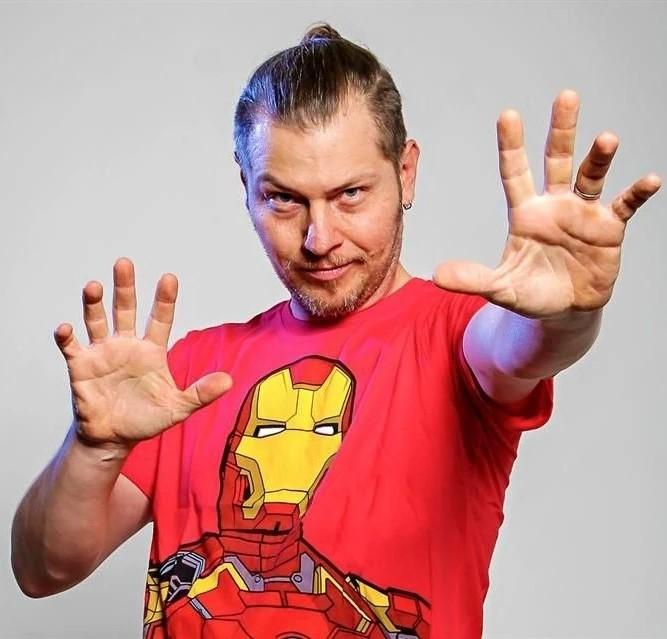
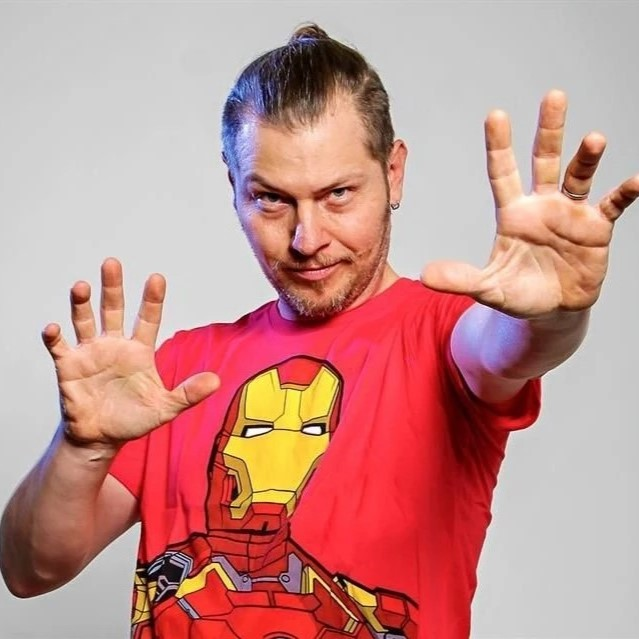
25.6

diff --git a/entradas.css b/entradas.css
@@ -80,6 +80,19 @@
     margin-top: 14%;
     cursor: pointer;
 }
+.botones2 {
+    background-color: rgb(0, 0, 0);
+    font-family: 'Franklin Gothic Medium';
+    color: white;
+    border-radius: 10px;
+    padding: 6px 60px;
+    text-align: center;
+    text-decoration: none;
+    display: inline-block;
+    font-size: 30px;
+    margin-top: 25%;
+    cursor: pointer;
+}
 .botones3 {
     background-color: rgb(0, 0, 0);
     font-family: 'Franklin Gothic Medium';

diff --git a/entradas.html b/entradas.html
@@ -73,7 +73,7 @@
                             <p>- Póster exclusivo.</p>
                             <p>- Zona VIP.</p>
                         </div>
-                        <a href="carrito.html?agregar=vip" class="botones">
+                        <a href="carrito.html?agregar=vip" class="botones2">
                            COMPRAR
                         </a>
                      </div>
@@ -91,7 +91,7 @@
                             <p>- Stands y tiendas.</p>
                             <p>- Póster exclusivo.</p>
                         </div>  
-                        <a href="carrito.html?agregar=abono" class="botones">
+                        <a href="carrito.html?agregar=abono" class="botones3">
                          COMPRAR
                         </a>
                      </div>

diff --git a/global.css b/global.css
@@ -190,7 +190,7 @@ body {
     margin-top: 20px;
 }
 .tarjeta {
-    width: 22%;
+    width: 24%;
 }
 .tarjeta img {
     width: 100%;
@@ -227,7 +227,7 @@ body {
     font-family: 'Franklin Gothic Medium';
 }
 .tarjeta2 {
-    width: 22%;
+    width: 24%;
 }
 .tarjeta2 img {
     width: 100%;